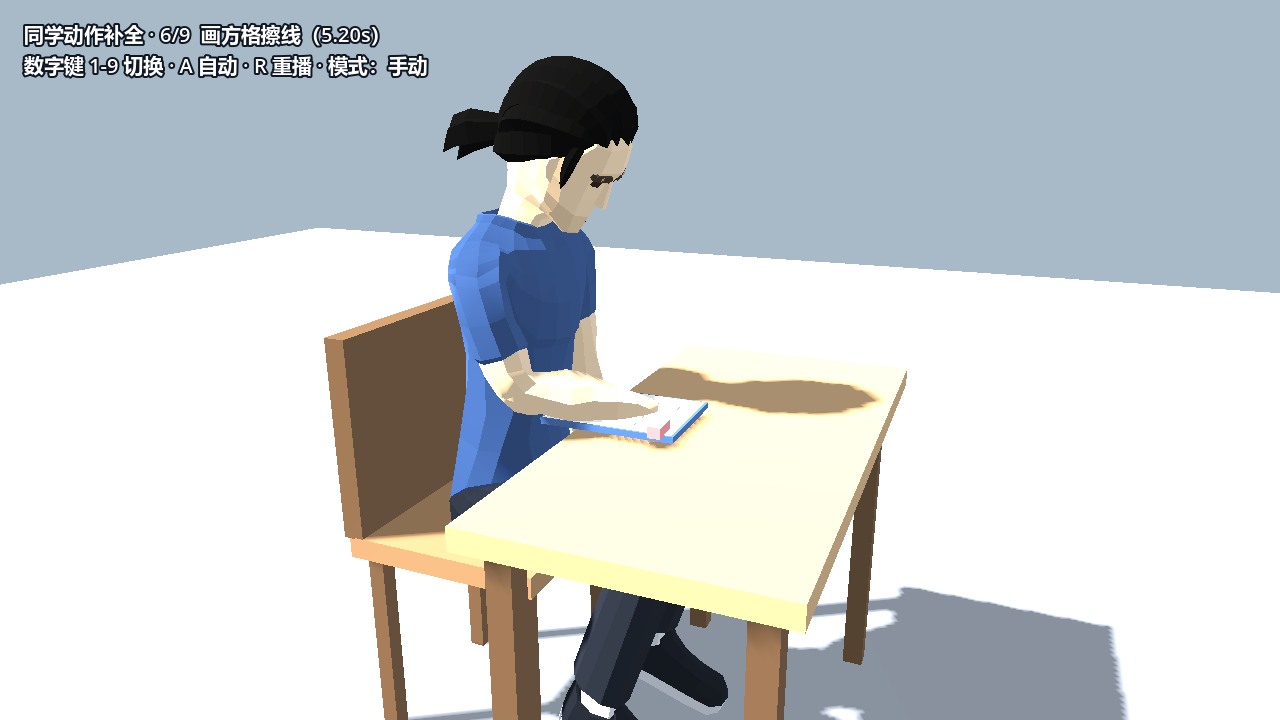
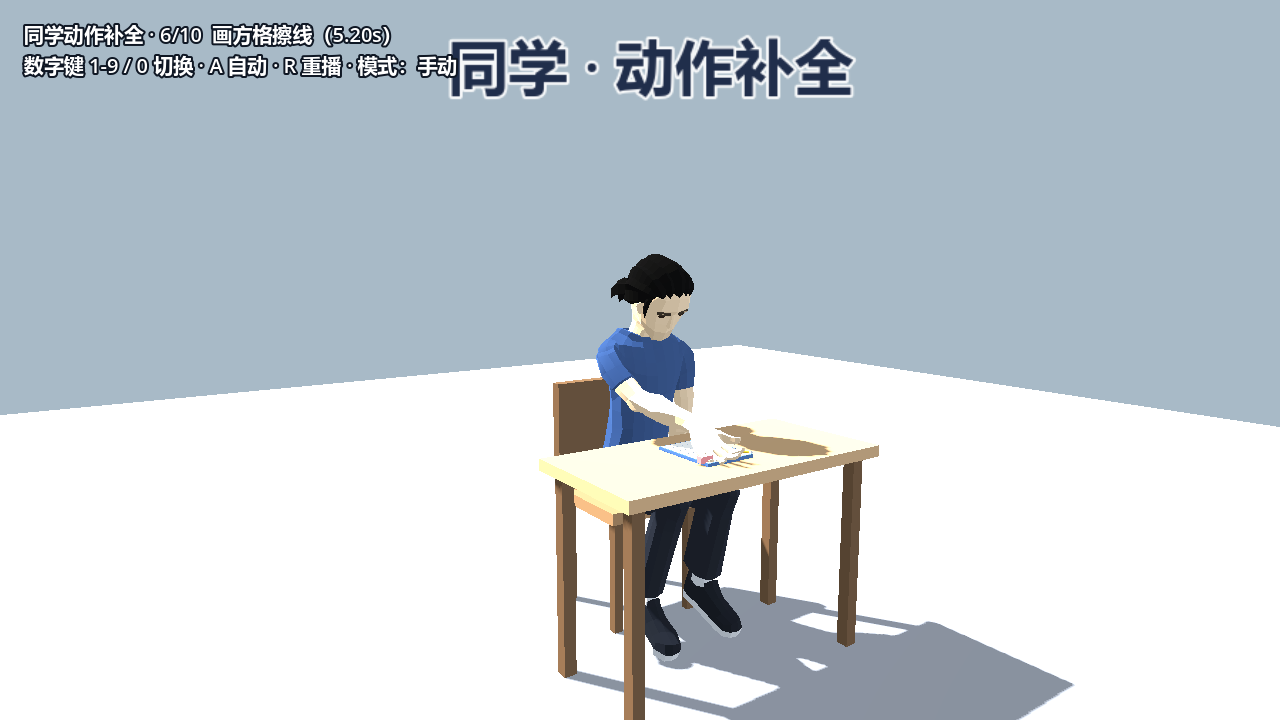
fix: 画方格与放低课本贴桌面，修正手和道具穿桌面/悬空
- DRAW_GRID：手腕抬到台面 +0.085、手放平；铅笔改为笔尖指向本子落点的专用摆放
- LOWER_BOOK：落点改为 desk_height + 0.014，书底贴台面；双手同步落到书侧
- 本子/课本前后位置 0.33 → 0.52 m，教室课桌与预览小桌都落在桌面内
- 测试补 4 项桌面高度断言（73 项全绿）；重渲染 14/15/16 效果图

diff --git a/docs/同学桌面持笔与四项动作补充-2026-10-26.md b/docs/同学桌面持笔与四项动作补充-2026-10-26.md
@@ -82,3 +82,19 @@
    `props.pen`，同时存在会出现两支笔——建议事件同桌设 `show_props = false`，
    或删掉 JSON 的 `props.pen` 坠落/放回，二选一。
 5. 口型仍是程序化节奏（`teacher_face.gd`），没有与真实配音对齐。
+
+## 六、2026-10-26 修正：画方格与放低课本的桌面归属
+
+用户反馈这两项动作在同学预览里穿桌面 / 悬空，已修正并补回归断言：
+
+| 问题 | 原因 | 修正 |
+| --- | --- | --- |
+| 画方格划线时手和铅笔落到桌面以下 | 手腕目标就取在本子高度（y=0.765），手指与铅笔再沿 52° 俯角往下探；铅笔用通用握持，笔尖插到桌面下 | 手腕抬到台面 +0.085、手放平（约 26°）；铅笔改为“笔尖指向本子落点”的专用摆放（`_place_drawing_pencil`），笔尖贴本子面 |
+| 放低课本后课本仍悬空 | 落点写死 y=0.795，比桌面高 3.5–5.5 cm | 落点改为 `desk_height + 0.014`（书厚 0.027，书底正好贴台面）；双手同步落到书侧 |
+| 橡皮擦线时也低于桌面 | 左手腕目标只有台面 +0.06，握持后橡皮再低约 2 cm | 左手腕抬到台面 +0.09 |
+
+同时把本子/课本的前后位置从 0.33 m 调到 0.52 m：预览小桌近边 0.26 m、教室课桌近边 0.455 m，
+0.52 m 在两边都落在桌面上（原来 0.33 m 在教室里其实悬在桌外）。
+
+验证：`tests/character_actions_check.gd` **73 项 PASS**，新增 4 项断言（本子底贴台面、铅笔不低于台面、
+右手不低于台面、橡皮不低于台面）、课本底贴台面；重渲染 `14/15/16` 三张效果图并人工查看。
